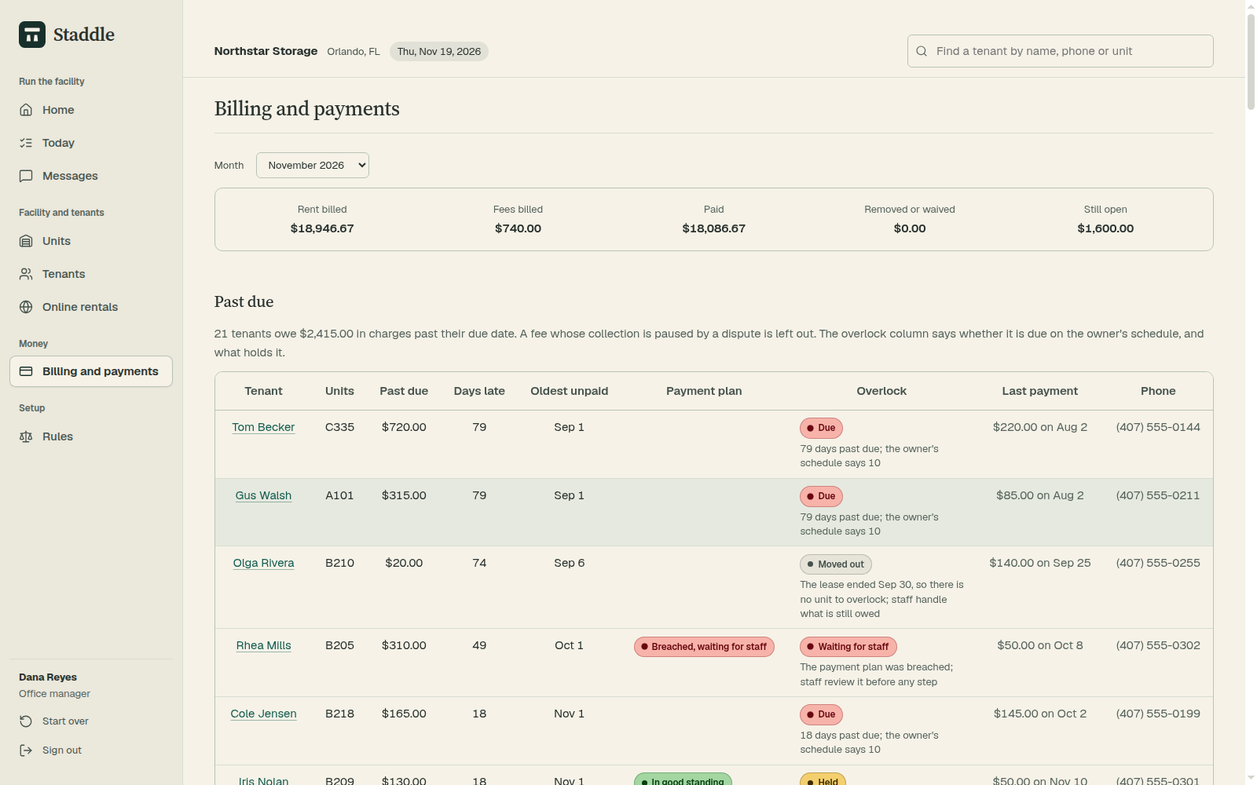
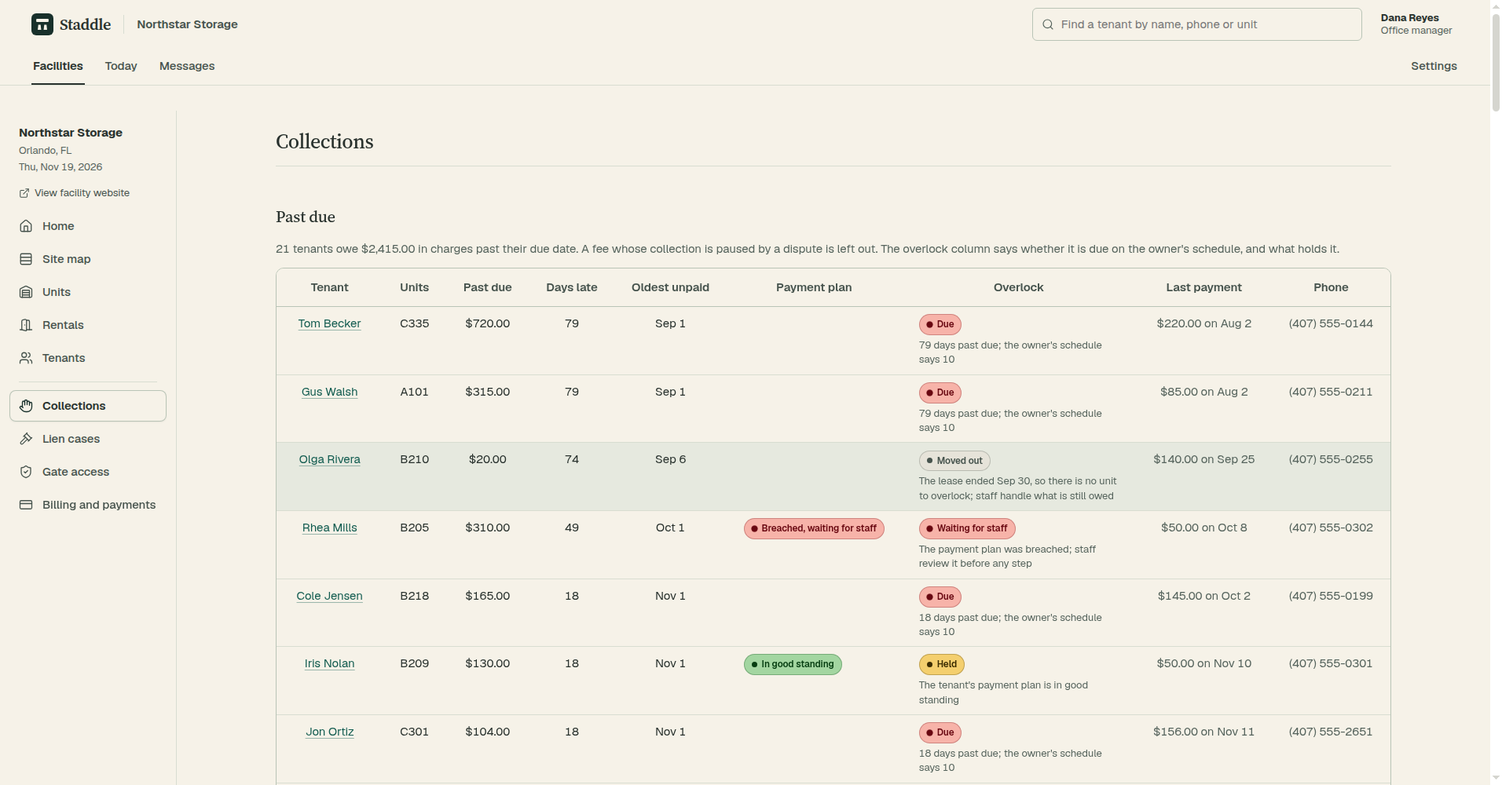
Give the FMS a top bar and a facility menu on the left (#107)
A bar across the top holds the facility's name, search and the staff
profile, with Facilities, Today, Messages and Settings. Inside
Facilities a menu down the left lists Home, Site map, Units, Rentals
and Tenants, then Collections, Lien cases, Gate access, and Billing and
payments. Site map, Rentals, Collections, Lien cases and Gate access
are new pages built from records the FMS already keeps. Billing keeps
the month's payments and the books line; Collections shows who is past
due. Rules sit under Settings. README screenshots show the new layout.

diff --git a/desk/static/staddle.css b/desk/static/staddle.css
@@ -1368,3 +1368,55 @@ body.website > main { flex: 1 0 auto; }
 .website-links { display: flex; flex-wrap: wrap; gap: var(--s4) var(--s6); margin-top: var(--s5); font-weight: 600; }
 @media (min-width: 1100px) { .website-columns { grid-template-columns: minmax(0, 3fr) minmax(20rem, 2fr); gap: var(--s7); } }
 @media (max-width: 32rem) { .website .top .wrap { gap: var(--s2); flex-wrap: wrap; height: auto; padding-top: var(--s3); padding-bottom: var(--s3); } .website .brand { font-size: 1.25rem; } .website .top nav a { padding: 0; } .website-grid { grid-template-columns: repeat(auto-fill, minmax(min(100%, 16rem), 1fr)); } .website-result-row { grid-template-columns: 1fr; gap: var(--s2); } }
+
+/* the FMS layout: a bar across the top (Facilities, Today, Messages, Settings) and, inside Facilities, the facility menu on the left */
+body.fms { display: flex; flex-direction: column; min-height: 100vh; }
+body.fms > main { flex: 1 0 auto; }
+.fms-head { position: sticky; top: 0; z-index: 5; background: var(--bar); border-bottom: 1px solid var(--rule); }
+.fms-head-row { display: flex; align-items: center; gap: var(--s4); padding: 10px clamp(20px, 3vw, 40px); }
+.fms-head-row .brand { display: flex; align-items: center; gap: var(--s2); font-family: var(--display); font-size: 1.35rem; color: var(--ink); }
+.fms-head-row .brand .brand-mark, .fms-head-row .brand svg { width: 28px; height: 28px; }
+.fms-org { padding-left: var(--s4); border-left: 1px solid var(--rule); font-weight: 600; color: var(--ink-2); }
+.fms-head-row .fms-find { margin-left: auto; position: relative; display: flex; align-items: center; }
+.fms-head-row .fms-find .icon { position: absolute; left: 12px; width: 16px; height: 16px; color: var(--ink-3); }
+.fms-head-row .fms-find input { width: min(28rem, 40vw); padding-left: 36px; }
+.fms-who { position: relative; font-size: var(--t-sm); line-height: 1.2; }
+.fms-who summary { display: grid; cursor: pointer; list-style: none; padding: 4px 8px; border-radius: 8px; }
+.fms-who summary::-webkit-details-marker { display: none; }
+.fms-who summary:hover { background: color-mix(in srgb, var(--ink) 6%, transparent); }
+.fms-who summary span { color: var(--ink-3); }
+.fms-who-menu { position: absolute; right: 0; top: calc(100% + 6px); z-index: 6; min-width: 12rem; padding: var(--s2); background: var(--paper); border: 1px solid var(--frame); border-radius: 10px; box-shadow: 0 6px 18px rgba(17,19,18,.08); }
+.fms-who-menu form { margin: 0; }
+.fms-who-menu button { display: flex; align-items: center; gap: var(--s3); width: 100%; padding: 8px var(--s2); font: inherit; color: var(--ink-2); background: none; border: 0; border-radius: 6px; cursor: pointer; text-align: left; }
+.fms-who-menu button:hover { background: color-mix(in srgb, var(--ink) 6%, transparent); color: var(--ink); }
+.fms-who-menu .icon { width: 16px; height: 16px; }
+.fms-tabs { display: flex; gap: var(--s5); padding: 0 clamp(20px, 3vw, 40px); }
+.fms-tabs a { padding: 10px 2px; color: var(--ink-2); font-weight: 500; border-bottom: 2px solid transparent; }
+.fms-tabs a:hover { color: var(--ink); text-decoration: none; }
+.fms-tabs a[aria-current="page"] { color: var(--ink); border-bottom-color: var(--ink); font-weight: 600; }
+.fms-tabs .push { margin-left: auto; }
+.fms-work { display: grid; grid-template-columns: 15rem minmax(0, 1fr); min-height: 100%; }
+.fms-work.fms-work-full { grid-template-columns: minmax(0, 1fr); }
+.fms-side { border-right: 1px solid var(--rule); background: var(--bar); padding: var(--s4) var(--s3); display: flex; flex-direction: column; gap: var(--s3); }
+.fms-fac { display: grid; padding: 0 var(--s3); }
+.fms-fac b { font-size: var(--t-body); }
+.fms-fac span { color: var(--ink-3); font-size: var(--t-sm); }
+.fms-site { display: inline-flex; align-items: center; gap: 6px; padding: 0 var(--s3); font-size: var(--t-sm); color: var(--ink-2); }
+.fms-site .icon { width: 14px; height: 14px; }
+.fms-side nav { display: flex; flex-direction: column; gap: 2px; }
+.fms-side nav a { display: flex; align-items: center; gap: var(--s3); padding: 8px var(--s3); border-radius: 8px; color: var(--ink-2); font-weight: 500; }
+.fms-side nav a .icon { width: 18px; height: 18px; flex: none; }
+.fms-side nav a:hover { background: color-mix(in srgb, var(--ink) 6%, transparent); color: var(--ink); text-decoration: none; }
+.fms-side nav a[aria-current="page"] { background: var(--paper); color: var(--ink); font-weight: 600; box-shadow: 0 1px 2px rgba(17,19,18,.06), inset 0 0 0 1px var(--frame); }
+.fms-side nav a[aria-current="page"] .icon { color: var(--blue); }
+.fms-sep { border: 0; border-top: 1px solid var(--rule); margin: var(--s2) var(--s3); }
+@media (max-width: 64rem) {
+  .fms-head-row { flex-wrap: wrap; }
+  .fms-head-row .fms-find { order: 3; flex: 1 0 100%; margin-left: 0; }
+  .fms-head-row .fms-find input { width: 100%; }
+  .fms-who { margin-left: auto; }
+  .fms-work { grid-template-columns: minmax(0, 1fr); }
+  .fms-side { border-right: 0; border-bottom: 1px solid var(--rule); }
+  .fms-side nav { flex-direction: row; flex-wrap: wrap; }
+  .fms-sep { display: none; }
+}

diff --git a/desk/templates/fms.html b/desk/templates/fms.html
@@ -2,31 +2,47 @@
 {% block title %}{% block page %}{% endblock %} | {{ f.name }} | {{ brand }}{% endblock %}
 {% block bodyclass %}fms{% endblock %}
 {% block header %}
-<header class="fms-rail">
-  <a class="brand" href="/home">{% include "icons/staddle.svg" %}{{ brand }}</a>
-  <nav aria-label="FMS">
-    {% for group, items in menu %}
-    <p class="fms-group">{{ group }}</p>
-    {% for key, label, icon in items %}<a href="/{{ key }}" {% if nav == key %}aria-current="page"{% endif %}>{% include "icons/" ~ icon ~ ".svg" %}<span>{{ label }}</span></a>{% endfor %}
-    {% endfor %}
-  </nav>
-  <div class="fms-me">
-    <p><b>Dana Reyes</b><span>Office manager</span></p>
-    <form method="post" action="/start-over"><button type="submit" title="Throw away every change on this copy and start from this morning again">{% include "icons/rotate-ccw.svg" %}<span>Start over</span></button></form>
-    <form method="post" action="/sign-out"><button type="submit">{% include "icons/log-out.svg" %}<span>Sign out</span></button></form>
+{% set global_nav = nav in ('today', 'messages', 'rules') %}
+<header class="fms-head">
+  <div class="fms-head-row">
+    <a class="brand" href="/home">{% include "icons/staddle.svg" %}{{ brand }}</a>
+    <span class="fms-org">{{ f.name }}</span>
+    <form class="fms-find" method="get" action="/tenants" role="search">
+      <label for="find" class="visually-hidden">Find a tenant by name, phone or unit</label>
+      {% include "icons/search.svg" %}<input id="find" name="q" maxlength="60" placeholder="Find a tenant by name, phone or unit">
+    </form>
+    <details class="fms-who">
+      <summary><b>Dana Reyes</b><span>Office manager</span></summary>
+      <div class="fms-who-menu">
+        <form method="post" action="/start-over"><button type="submit" title="Throw away every change on this copy and start from this morning again">{% include "icons/rotate-ccw.svg" %}<span>Start over</span></button></form>
+        <form method="post" action="/sign-out"><button type="submit">{% include "icons/log-out.svg" %}<span>Sign out</span></button></form>
+      </div>
+    </details>
   </div>
+  <nav class="fms-tabs" aria-label="FMS">
+    <a href="/home"{% if not global_nav %} aria-current="page"{% endif %}>Facilities</a>
+    <a href="/today"{% if nav == 'today' %} aria-current="page"{% endif %}>Today</a>
+    <a href="/messages"{% if nav == 'messages' %} aria-current="page"{% endif %}>Messages</a>
+    <a class="push" href="/rules"{% if nav == 'rules' %} aria-current="page"{% endif %}>Settings</a>
+  </nav>
 </header>
 {% endblock %}
 {% block main %}
-<div class="fms-topbar"><div class="fms-topbar-in">
-  <p class="fms-where"><b>{{ f.name }}</b> <span>{{ f.b.facility.city }}</span> <span class="fms-date">{{ today }}</span></p>
-  <form class="fms-find" method="get" action="/tenants" role="search">
-    <label for="find" class="visually-hidden">Find a tenant by name, phone or unit</label>
-    {% include "icons/search.svg" %}<input id="find" name="q" maxlength="60" placeholder="Find a tenant by name, phone or unit">
-  </form>
-</div></div>
+<div class="fms-work{% if nav in ('today', 'messages', 'rules') %} fms-work-full{% endif %}">
+{% if nav not in ('today', 'messages', 'rules') %}
+<aside class="fms-side">
+  <p class="fms-fac"><b>{{ f.name }}</b><span>{{ f.b.facility.city }}</span><span>{{ today }}</span></p>
+  <a class="fms-site" href="/rent">{% include "icons/external-link.svg" %}View facility website</a>
+  <nav aria-label="Facility">
+    {% for key, label, icon in side[0] %}<a href="/{{ key }}" {% if nav == key %}aria-current="page"{% endif %}>{% include "icons/" ~ icon ~ ".svg" %}<span>{{ label }}</span></a>{% endfor %}
+    <hr class="fms-sep">
+    {% for key, label, icon in side[1] %}<a href="/{{ key }}" {% if nav == key %}aria-current="page"{% endif %}>{% include "icons/" ~ icon ~ ".svg" %}<span>{{ label }}</span></a>{% endfor %}
+  </nav>
+</aside>
+{% endif %}
 <div class="fms-page">
 {% block body %}{% endblock %}
+</div>
 </div>
 <script>
 // a table fills its frame with the spare width shared equally by its columns, so every gap between columns is the same.

diff --git a/desk/templates/fms_billing.html b/desk/templates/fms_billing.html
@@ -2,8 +2,9 @@
 {% block page %}Billing and payments{% endblock %}
 {% block body %}
 <header class="head">
-  <h1>Billing and payments</h1>
+  <h1>{{ title or 'Billing and payments' }}</h1>
 </header>
+{% if not only_past %}
 <form class="fms-search" method="get" action="/billing">
   <label for="month">Month</label>
   <select id="month" name="month" onchange="this.form.submit()">{% for key, name in months %}<option value="{{ key }}" {% if key == month.key %}selected{% endif %}>{{ name }}</option>{% endfor %}</select>
@@ -17,7 +18,8 @@
   <div><dt>Still open</dt><dd>{{ money(month.open) }}</dd></div>
 </dl>
 
-<section class="fms-section" id="past-due" aria-labelledby="h-past">
+{% endif %}
+{% if not only_month %}<section class="fms-section" id="past-due" aria-labelledby="h-past">
   <h2 id="h-past">Past due</h2>
   <p class="muted">{{ past|length }} tenants owe {{ money(past|sum(attribute='past')) }} in charges past their due date. A fee whose collection is paused by a dispute is left out. The overlock column says whether it is due on the owner's schedule, and what holds it.</p>
   <div class="fms-scroll" tabindex="0" role="region" aria-labelledby="h-past"><table class="fms-table">
@@ -28,7 +30,8 @@
       <td class="muted">{{ r.paid }}</td><td class="muted">{{ r.phone }}</td></tr>{% endfor %}</tbody>
   </table></div>
 </section>
-
+{% endif %}
+{% if not only_past %}
 <section class="fms-section" aria-labelledby="h-pays">
   <h2 id="h-pays">Payments in {{ month.name }}</h2>
   <p class="muted">{{ month.payments|length }} payments, {{ money(month.collected) }} received{% if month.returned %}, {{ month.returned }} returned by the bank{% endif %}. A payment is dated when the card was charged; when the facility learned of it later, both dates are shown.</p>
@@ -46,4 +49,5 @@
 </section>
 {% endif %}
 <p class="muted">{% if f.balanced %}Every books entry balances: {{ money(f.debits) }} in debits and the same in credits, across the year.{% else %}The books do not balance. This is a fault, and it is shown, not hidden.{% endif %}</p>
+{% endif %}
 {% endblock %}

diff --git a/desk/templates/fms_units.html b/desk/templates/fms_units.html
@@ -2,14 +2,14 @@
 {% block page %}Units{% endblock %}
 {% block body %}
 <header class="head">
-  <h1>Units</h1>
+  <h1>{{ title or 'Units' }}</h1>
 </header>
 {% set counts = f.unit_counts(rows) %}{% set rented = counts.occupied + counts.past + counts.dispute %}
 <p class="fms-summary">Unit occupancy {{ ((100 * rented) / (rented + counts.reserved + counts.blocked + counts.vacant))|round|int }}%: {{ rented }} of {{ rented + counts.reserved + counts.blocked + counts.vacant }} units occupied.</p>
 <p class="fms-legend"><span><i class="occ"></i>Current <b>{{ counts.occupied }}</b></span><span><i class="act"></i>Past due <b>{{ counts.past }}</b></span><span><i class="wait"></i>Fee in dispute <b>{{ counts.dispute }}</b></span><span><i class="held"></i>Reserved <b>{{ counts.reserved }}</b></span><span><i class="blk"></i>Blocked <b>{{ counts.blocked }}</b></span><span><i class="vac"></i>Vacant <b>{{ counts.vacant }}</b></span></p>
 {% if step_note %}<p class="fms-status" id="note" role="status">Nothing changed. {{ step_note }}</p>{% endif %}
 <datalist id="tenant-names">{% for label in f.tenant_labels %}<option value="{{ label }}">{% endfor %}</datalist>
-<div class="fms-map" aria-label="Site map">
+{% if not table_only %}<div class="fms-map" aria-label="Site map">
   {% for row, items in rows %}
   <section class="fms-map-row" aria-labelledby="m-row-{{ row }}">
     <h3 id="m-row-{{ row }}">Building {{ row }}</h3>
@@ -21,8 +21,8 @@
     </ul>
   </section>
   {% endfor %}
-</div>
-{% for row, items in rows %}
+</div>{% endif %}
+{% if not map_only %}{% for row, items in rows %}
 <section class="fms-section" aria-labelledby="h-row-{{ row }}">
   <h2 id="h-row-{{ row }}">Building {{ row }}</h2>
   <div class="fms-scroll" tabindex="0" role="region" aria-labelledby="h-row-{{ row }}"><table class="fms-table">
@@ -61,4 +61,5 @@
   </table></div>
 </section>
 {% endfor %}
+{% endif %}
 {% endblock %}

diff --git a/desk/templates/fms_list.html b/desk/templates/fms_list.html
@@ -1,0 +1,9 @@
+{% extends "fms.html" %}
+{% block page %}{{ title }}{% endblock %}
+{% block body %}
+<header class="head"><h1>{{ title }}</h1></header>
+<p class="fms-summary">{{ lede }}</p>
+{% if rows %}<div class="fms-scroll"><table class="fms-table"><thead><tr>{% for h in heads %}<th>{{ h }}</th>{% endfor %}</tr></thead>
+<tbody>{% for r in rows %}<tr>{% for c in r %}<td>{{ c }}</td>{% endfor %}</tr>{% endfor %}</tbody></table></div>
+{% else %}<p class="muted">{{ empty }}</p>{% endif %}
+{% endblock %}

diff --git a/desk/fms.py b/desk/fms.py
@@ -38,10 +38,12 @@ DEMO_NAME, DEMO_PASSWORD = "dana.reyes", "northstar"
 SESSION = "staddle_session"
 STAFF = "staff:office_manager"
 # the menu in the groups an FMS is organised by; a module joins its group when it is built, never as a greyed-out item
-MENU = (("Run the facility", (("home", "Home", "house"), ("today", "Today", "list-checks"), ("messages", "Messages", "message-square"))),
-        ("Facility and tenants", (("units", "Units", "warehouse"), ("tenants", "Tenants", "users"), ("rent", "Online rentals", "globe"))),
-        ("Money", (("billing", "Billing and payments", "credit-card"),)),
-        ("Setup", (("rules", "Rules", "scale"),)))
+# the facility menu down the left inside Facilities: the day-to-day facility pages, then money and legal work. Today, Messages and
+# Settings (Rules) sit in the bar across the top.
+SIDE = ((("home", "Home", "house"), ("sitemap", "Site map", "rows-3"), ("units", "Units", "warehouse"), ("rentals", "Rentals", "door-open"),
+         ("tenants", "Tenants", "users")),
+        (("collections", "Collections", "hand"), ("liens", "Lien cases", "gavel"), ("gate", "Gate access", "shield-check"),
+         ("billing", "Billing and payments", "credit-card")))
 # the only addresses that answer without a session; tests/test_fms.py walks every route against this list. The card processor's
 # webhook is the one write among them: the processor calls it, no session exists, its signature is the check, and without a signing
 # secret it answers 503 (desk/stripe_hook.py)
@@ -764,7 +766,7 @@ def mount(app, fd: FrontDesk, settings, guard, from_elsewhere, session_factory, 
             raise HTTPException(403, "this request came from another site")
 
     def show(request: Request, name: str, nav: str, f: Facility, **ctx):
-        return templates.TemplateResponse(request, name, {"nav": nav, "menu": MENU, "agent": AGENT, "f": f, "today": date_words(f.today), "live": live,
+        return templates.TemplateResponse(request, name, {"nav": nav, "side": SIDE, "agent": AGENT, "f": f, "today": date_words(f.today), "live": live,
                                                           "money": money, "day": day, **ctx})
 
     def check() -> dict | None:
@@ -982,7 +984,7 @@ def mount(app, fd: FrontDesk, settings, guard, from_elsewhere, session_factory, 
     def units(request: Request):
         ident = need(request)
         f = Facility(fd, ident)
-        return show(request, "fms_units.html", "units", f, rows=f.units(), occupancy=f.occupancy(), token=secrets.token_hex(6),
+        return show(request, "fms_units.html", "units", f, rows=f.units(), occupancy=f.occupancy(), token=secrets.token_hex(6), table_only=True,
                     until_min=f.today.isoformat(), until_max=(f.today + timedelta(days=366)).isoformat(), step_note=plain(fd.take_step_note(ident)))
 
     @app.get("/tenants", include_in_schema=False)
@@ -1017,7 +1019,50 @@ def mount(app, fd: FrontDesk, settings, guard, from_elsewhere, session_factory, 
         f = Facility(fd, need(request))
         months = f.months()
         key = month if month in dict(months) else month_key(f.today)
-        return show(request, "fms_billing.html", "billing", f, months=months, month=f.month(key), past=f.past_due())
+        return show(request, "fms_billing.html", "billing", f, months=months, month=f.month(key), past=f.past_due(), only_month=True)
+
+    @app.get("/collections", include_in_schema=False)
+    def collections(request: Request):
+        f = Facility(fd, need(request))
+        return show(request, "fms_billing.html", "collections", f, months=f.months(), month=f.month(month_key(f.today)), past=f.past_due(), only_past=True, title="Collections")
+
+    @app.get("/sitemap", include_in_schema=False)
+    def sitemap(request: Request):
+        ident = need(request)
+        f = Facility(fd, ident)
+        return show(request, "fms_units.html", "sitemap", f, rows=f.units(), occupancy=f.occupancy(), token=secrets.token_hex(6), map_only=True,
+                    title="Site map", until_min=f.today.isoformat(), until_max=(f.today + timedelta(days=366)).isoformat(), step_note="")
+
+    @app.get("/rentals", include_in_schema=False)
+    def rentals(request: Request):
+        f = Facility(fd, need(request))
+        rent = f.rent
+        tenants = list(dict.fromkeys([r.tenant for r in rent.reservations.values()] + [r.tenant for r in rent.rentals.values()]))
+        words = lambda x: x[0] if x else "-"
+        rows = [(f.people[t]["name"], x["unit"], words(x["where"]), words(x["pay"]), words(x["agreement"]), words(x["gate"]))
+                for t in tenants for x in f.renting_of(t)]
+        return show(request, "fms_list.html", "rentals", f, title="Rentals", heads=("Tenant", "Unit", "Where it stands", "Payment", "Agreement", "Gate code"), rows=rows,
+                    lede="Every reservation and rental, step by step: where it stands, the payment, the agreement and the gate code.",
+                    empty="No reservation or rental is waiting right now.")
+
+    @app.get("/liens", include_in_schema=False)
+    def lien_cases(request: Request):
+        from core import liens as lien_core
+        f = Facility(fd, need(request))
+        cases = lien_core.state(f.b).cases.values()
+        rows = [(f.people[c.tenant]["name"], f.b.leases[c.lease].unit, lien_core.case_state(f.b, c, f.now)[0].capitalize()) for c in cases if not c.closed]
+        return show(request, "fms_list.html", "liens", f, title="Lien cases", heads=("Tenant", "Unit", "Where the file stands"), rows=rows,
+                    lede="Open lien files: evidence, the frozen ledger copy, approvals and legal stops.", empty="No lien case is open.")
+
+    @app.get("/gate", include_in_schema=False)
+    def gate_access(request: Request):
+        f = Facility(fd, need(request))
+        rent = f.rent
+        tenants = list(dict.fromkeys(r.tenant for r in rent.rentals.values()))
+        rows = [(f.people[t]["name"], x["unit"], x["gate"][0]) for t in tenants for x in f.renting_of(t) if x["gate"]]
+        return show(request, "fms_list.html", "gate", f, title="Gate access", heads=("Tenant", "Unit", "Gate code"), rows=rows,
+                    lede="Gate codes set for rentals, each counted only once it was read back from the gate system.",
+                    empty="No gate code has been set on this copy yet.")
 
     @app.get("/rules", include_in_schema=False)
     def rules(request: Request, stale: int = 0):

diff --git a/tests/test_fms.py b/tests/test_fms.py
@@ -22,7 +22,7 @@ from desk.front_desk import SHIFT
 
 from .conftest import FULL_KEY
 
-PAGES = ["/home", "/today", "/messages", "/messages/try", "/units", "/tenants", "/billing", "/rules"]
+PAGES = ["/home", "/today", "/messages", "/messages/try", "/sitemap", "/units", "/rentals", "/tenants", "/collections", "/liens", "/gate", "/billing", "/rules"]
 
 
 class Script:
@@ -121,7 +121,7 @@ def test_the_screens_show_the_generated_year_in_words(fms_url, sim):
         text = {p: seen(r.text) for p, r in pages.items()}
         # the live copy's year plus its two tenants in collections (Iris Nolan owes $130.00 and Rhea Mills $310.00 on Nov 14), who
         # change no one else
-        assert "$2,996.00" in text["/home"] and "23 tenants" in text["/home"] and "23 tenants owe $2,996.00" in text["/billing"]
+        assert "$2,996.00" in text["/home"] and "23 tenants" in text["/home"] and "23 tenants owe $2,996.00" in text["/collections"]
         assert "All 120 units" in text["/home"] and len(re.findall(r"[A-Z][a-z]{2} \d{1,2}, 20\d\d", text["/units"].split("units occupied.", 1)[1])) == 113
         assert "124 tenants" in text["/tenants"]
         assert "Building A" in text["/units"] and "Vacant 7" in text["/units"] and "Row A" not in text["/units"]
@@ -131,14 +131,20 @@ def test_the_screens_show_the_generated_year_in_words(fms_url, sim):
         record = seen(c.get(record_of(c, "Maria Lopez")).text)
         assert "Ledger" in record and "Card declined" in record and "November rent" in record
         for p, r in pages.items():
-            # the menu down the left with an icon for each item, no tagline under a title, no GitHub inside the FMS
-            assert 'class="fms-rail"' in r.text and r.text.count('<svg class="icon"') >= 7 and 'class="tagline"' not in r.text, p
+            # the bar across the top on every page; inside Facilities the menu down the left with an icon for each item; no tagline
+            # under a title, no GitHub inside the FMS
+            assert 'class="fms-head"' in r.text and 'class="fms-tabs"' in r.text and 'class="tagline"' not in r.text, p
+            if p not in ("/today", "/messages", "/messages/try", "/rules"):
+                assert 'class="fms-side"' in r.text and r.text.split('class="fms-side"', 1)[1].count('<svg class="icon"') >= 9, p
             assert "github" not in r.text.lower(), p
         for p, words in text.items():
             assert not re.search(r"\b[CTLPDH]\d{4}\b", words), p          # no record ids
             assert not re.search(r"\b[a-z]+_[a-z_]+\b", words), (p, re.findall(r"\b[a-z]+_[a-z_]+\b", words)[:3])   # no codes
             assert not re.search(r"(?i)claude|haiku|sonnet|anthropic|openai|gpt|our agent", words), p
         assert c.get("/tenants?q=A108").text.count('href="/tenants/') == 1
+        # Billing keeps the month's payments and the books line; Collections shows only who is past due
+        assert "Payments in" in text["/billing"] and "Every books entry balances" in text["/billing"] and "Past due" not in text["/billing"]
+        assert "Past due" in text["/collections"] and "Payments in" not in text["/collections"]
         # every month's charges add up: billed is paid, removed or still open
         for key in re.findall(r'<option value="(\d{4}-\d{2})"', pages["/billing"].text):
             box = seen(c.get("/billing", params={"month": key}).text)
@@ -204,7 +210,7 @@ def test_the_day_opens_with_last_weeks_dispute_and_staff_can_settle_it_on_their_
         assert "$25.00 admin fee, posted Nov 8 by hand" in words and "Late fee" in words and "Remove the fee" in words
         nora = record_of(c, "Nora Feld")
         unit = re.search(r"unit (C3\d\d)", words).group(1)
-        units = c.get("/units").text
+        units = c.get("/sitemap").text
         assert f'title="{unit}: Nora Feld, Fee in dispute"' in units and "Fee in dispute 1" in seen(units)
         dispute = re.search(r'name="dispute" value="([^"]+)"', card).group(1)
         for reason in ("her move-in special has no admin fee", "pressed again"):

diff --git a/tests/test_fms_renting_pages.py b/tests/test_fms_renting_pages.py
@@ -84,7 +84,7 @@ def test_units_show_the_four_states_with_counts_and_a_price_and_staff_hold_block
         # a unit's change controls are a row under it, opened by its Change link, with the forms side by side in it
         assert page.count('<tr class="fms-act"') == 120 and f'href="#act-{held}"' in page and f'<tr class="fms-act" id="act-{held}">' in page
         row = page.split(f'<tr class="fms-act" id="act-{held}">', 1)[1].split("</tr>", 1)[0]
-        assert re.findall(r'name="action" value="(\w+)"', row) == ["price_unit", "reserve", "block_unit"] and "<details" not in page and "<select" not in page
+        assert re.findall(r'name="action" value="(\w+)"', row) == ["price_unit", "reserve", "block_unit"] and "<details" not in page.split('class="fms-page"', 1)[1] and "<select" not in page
         # the tenant is typed against one list of every name, shared by every row
         assert page.count("<datalist") == 1 and page.count('<option value="') == 124 and 'value="Priya Shah"' in page and page.count('list="tenant-names"') == 7
         last = (NOW + timedelta(days=3)).date()
@@ -95,7 +95,7 @@ def test_units_show_the_four_states_with_counts_and_a_price_and_staff_hold_block
         assert len(rent_of(fd, ident).reservations) == 1 and rent_of(fd, ident).status(held, NOW) == "reserved"
         assert "Reserved 1" in seen(after) and "Vacant 6" in seen(after) and "Nothing changed" not in seen(after)
         assert f"Held for Priya Shah until {clock(at_local(last, 23, 59))}" in seen(after)
-        assert f'title="{held}: reserved for Priya Shah"' in after and after.count('value="reserve"') == 6
+        assert f'title="{held}: reserved for Priya Shah"' in c.get("/sitemap").text and after.count('value="reserve"') == 6
         unit_step(c, blocked, page, action="block_unit", reason="door being repaired")
         after = c.get("/units").text
         assert "Blocked 1" in seen(after) and "Blocked: door being repaired" in seen(after) and after.count('value="unblock_unit"') == 1
@@ -198,7 +198,7 @@ def test_a_moved_out_unit_is_blocked_until_its_code_is_revoked_and_staff_cannot_
         text = seen(page)
         assert "Blocked 1" in text and "Moved out; the old gate code is not revoked yet" in text
         assert page.count('value="unblock_unit"') == 0 and page.count('value="reserve"') == 6          # only a staff block has an Unblock
-        assert f'title="{unit}: blocked"' in page
+        assert f'title="{unit}: blocked"' in c.get("/sitemap").text
 
 
 def work(c) -> str:

diff --git a/tests/test_fms_collections.py b/tests/test_fms_collections.py
@@ -118,7 +118,7 @@ def test_staff_grant_and_revoke_an_exemption_that_holds_the_overlock(fms_url, si
 
 def test_the_past_due_list_shows_who_is_held_and_why(fms_url, sim):
     with sign_in(site(fms_url)) as c:
-        page = c.get("/billing").text
+        page = c.get("/collections").text
         table = page.split('id="h-past"', 1)[1].split("</table>", 1)[0]
         rows = re.findall(r"(?s)<tr>(.*?)</tr>", table.split("<tbody>", 1)[1])
         assert len(rows) == 23 and all(re.search(r'class="fms-state overlock"><span class="chip [a-z]+">[A-Z]', r) for r in rows)

diff --git a/tests/test_site_renting.py b/tests/test_site_renting.py
@@ -64,7 +64,7 @@ def test_rent_and_repeat_are_seen_by_staff(fms_url, sim, stripe):
         assert 'Active' in text and 'Paid' in text and 'Accepted by Rae Quinn' in text and 'Code set and read back' in text
         assert len(rent_of(fd, ident).rentals) == 1
         assert len(stripe.intents) == 1
-        assert f'title="{unit}: Rae Quinn' in c.get('/units').text
+        assert f'title="{unit}: Rae Quinn' in c.get('/sitemap').text
         assert 'Active' in seen(c.get(record_of(c, 'Rae Quinn')).text)
 
 

diff --git a/README.md b/README.md
@@ -90,8 +90,8 @@ A generated year of one facility runs through the same code: 120 units, 121 tena
 
 | | |
 |---|---|
-| ![Home](docs/screens/home.png) **Home.** The day at a glance: occupancy, money collected, past due, and what needs a person. | ![Units](docs/screens/units.png) **Units.** Every unit on the site map and in a table: rented, reserved, blocked or vacant, with past due and disputes marked. Staff price, hold, block and unblock units here. |
-| ![A tenant's page](docs/screens/tenant.png) **A tenant.** Balance, ledger, rentals step by step and collections on one page. | ![Billing and payments](docs/screens/billing.png) **Billing and payments.** The month's totals and every tenant past due, with payment plans and the overlocks due on the owner's schedule. |
+| ![Home](docs/screens/home.png) **Home.** The day at a glance: occupancy, money collected, past due, and what needs a person. | ![Site map](docs/screens/units.png) **Site map.** Every unit by building: rented, reserved, blocked or vacant, with past due and disputes marked. Staff price, hold, block and unblock units on the Units page. |
+| ![A tenant's page](docs/screens/tenant.png) **A tenant.** Balance, ledger, rentals step by step and collections on one page. | ![Collections](docs/screens/billing.png) **Collections.** Every tenant past due, with payment plans and the overlocks due on the owner's schedule. |
 | ![Online rentals](docs/screens/online-rentals.png) **Online rentals.** Where tenants rent a unit online: pick a size, accept the agreement, pay with a test card, and get a gate code that is read back. | |
 
 
